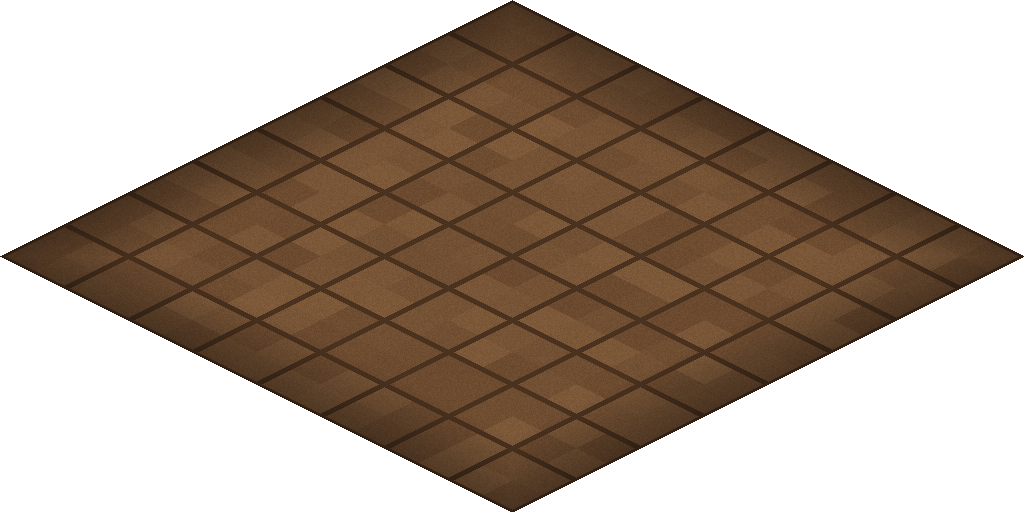
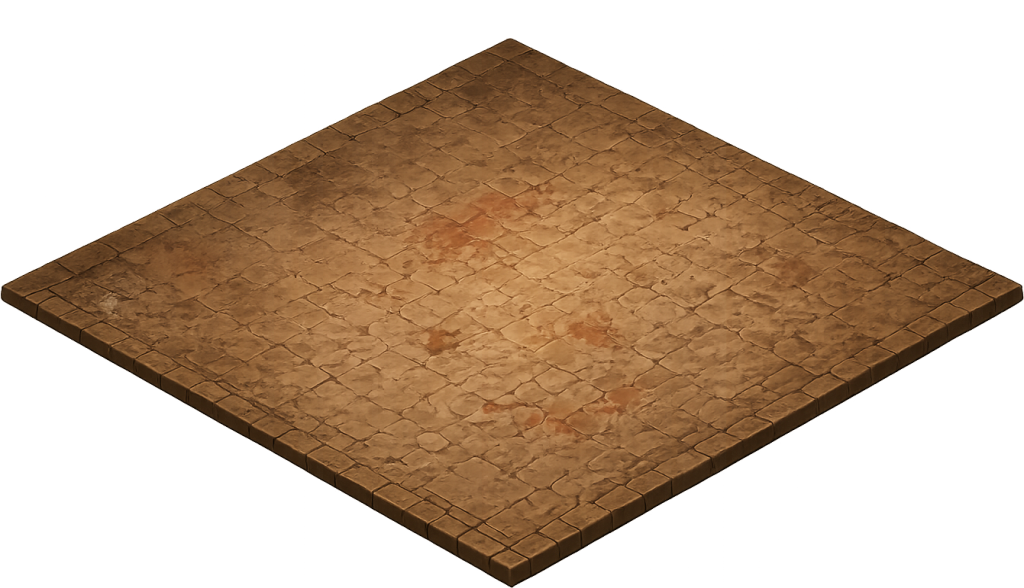
마을 바닥 이미지 교체 (윗면 2:1 정중앙 정렬, uuid 유지) + tools/replace_floor.js

diff --git a/tools/replace_floor.js b/tools/replace_floor.js
@@ -1,0 +1,52 @@
+/**
+ * 기존 바닥(floor) 이미지를 새 그림으로 교체하는 도구.
+ *   node tools/replace_floor.js <원본이미지> <대상이름>
+ *   예: node tools/replace_floor.js ~/Downloads/village.png 1_village_floor
+ *
+ * make_floor.js와 다른 점:
+ *  - **윗면(상판)만** 정확히 1024x512(2:1)이 되게 맞춘다 — 아래 슬래브(옆면 두께)는 별도로 인식
+ *  - 엔진이 바닥 이미지를 **구역 중심 기준**으로 배치하므로, 위쪽에 슬래브만큼 투명 패딩을 넣어
+ *    **윗면이 캔버스 정중앙**에 오게 한다 → floorOffY 보정 없이 타일 격자와 맞는다
+ *  - 기존 .meta의 **uuid를 유지**하고 크기만 갱신 → 맵/씬의 기존 참조가 깨지지 않는다
+ *
+ * 필요 패키지: jimp (npm i jimp)
+ */
+const Jimp=require('jimp'), fs=require('fs'), path=require('path');
+const FL='C:/Users/Chris/billionaire-game/dungeon-butcher/game/assets/resources/maps/floors';
+const TW=1024, TH=512; // 윗면(상판) 목표 — 2:1 아이소
+(async()=>{
+const [src,target]=process.argv.slice(2);
+const im=await Jimp.read(src);
+const {width:W,height:H,data:d}=im.bitmap;
+const A=(x,y)=>d[(y*W+x)*4+3];
+let x0=W,x1=-1,y0=H,y1=-1;
+for(let y=0;y<H;y++)for(let x=0;x<W;x++) if(A(x,y)>8){if(x<x0)x0=x;if(x>x1)x1=x;if(y<y0)y0=y;if(y>y1)y1=y;}
+const bw=x1-x0+1, bh=y1-y0+1;
+let wy=y0,wmax=0;
+for(let y=y0;y<=y1;y++){let l=-1,r=-1;for(let x=x0;x<=x1;x++) if(A(x,y)>8){if(l<0)l=x;r=x;} if(r-l>wmax){wmax=r-l;wy=y;}}
+const faceH=(wy-y0)*2;              // 윗면 높이(상단꼭짓점~좌우꼭짓점 대칭)
+const slab=Math.max(0,(y1-y0+1)-faceH); // 아래 슬래브(옆면) 두께
+im.crop(x0,y0,bw,bh);
+const sy=TH/faceH, outH=Math.round(bh*sy), slabS=Math.max(0,outH-TH);
+im.resize(TW,outH);                  // 윗면이 정확히 1024x512가 되도록
+// 윗면을 캔버스 정중앙에 두기 위해 위쪽에 슬래브만큼 투명 패딩 (엔진이 중심 기준 배치)
+const canvasH=TH+slabS*2;
+const out=new Jimp(TW,canvasH,0x00000000);
+out.composite(im,0,slabS);
+const file=path.join(FL,target+'.png');
+await out.writeAsync(file);
+// 기존 .meta의 uuid 유지 + 크기만 갱신 (참조 깨짐 방지)
+const mp=file+'.meta';
+const m=JSON.parse(fs.readFileSync(mp,'utf8'));
+for(const k of Object.keys(m.subMetas)){
+  const sm=m.subMetas[k];
+  if(sm.importer!=='sprite-frame') continue;
+  const u=sm.userData, hw=TW/2, hh=canvasH/2;
+  Object.assign(u,{width:TW,height:canvasH,rawWidth:TW,rawHeight:canvasH});
+  u.vertices={rawPosition:[-hw,-hh,0,hw,-hh,0,-hw,hh,0,hw,hh,0],indexes:[0,1,2,2,1,3],
+    uv:[0,canvasH,TW,canvasH,0,0,TW,0],nuv:[0,0,1,0,0,1,1,1],minPos:[-hw,-hh,0],maxPos:[hw,hh,0]};
+}
+fs.writeFileSync(mp, JSON.stringify(m,null,2));
+console.log(`${target}: 원본 내용 ${bw}x${bh} (윗면 ${wmax}x${faceH}, 슬래브 ${slab})`);
+console.log(`  → 출력 ${TW}x${canvasH} — 윗면 ${TW}x${TH} 정중앙, 슬래브 ${slabS}px, uuid 유지`);
+})();
